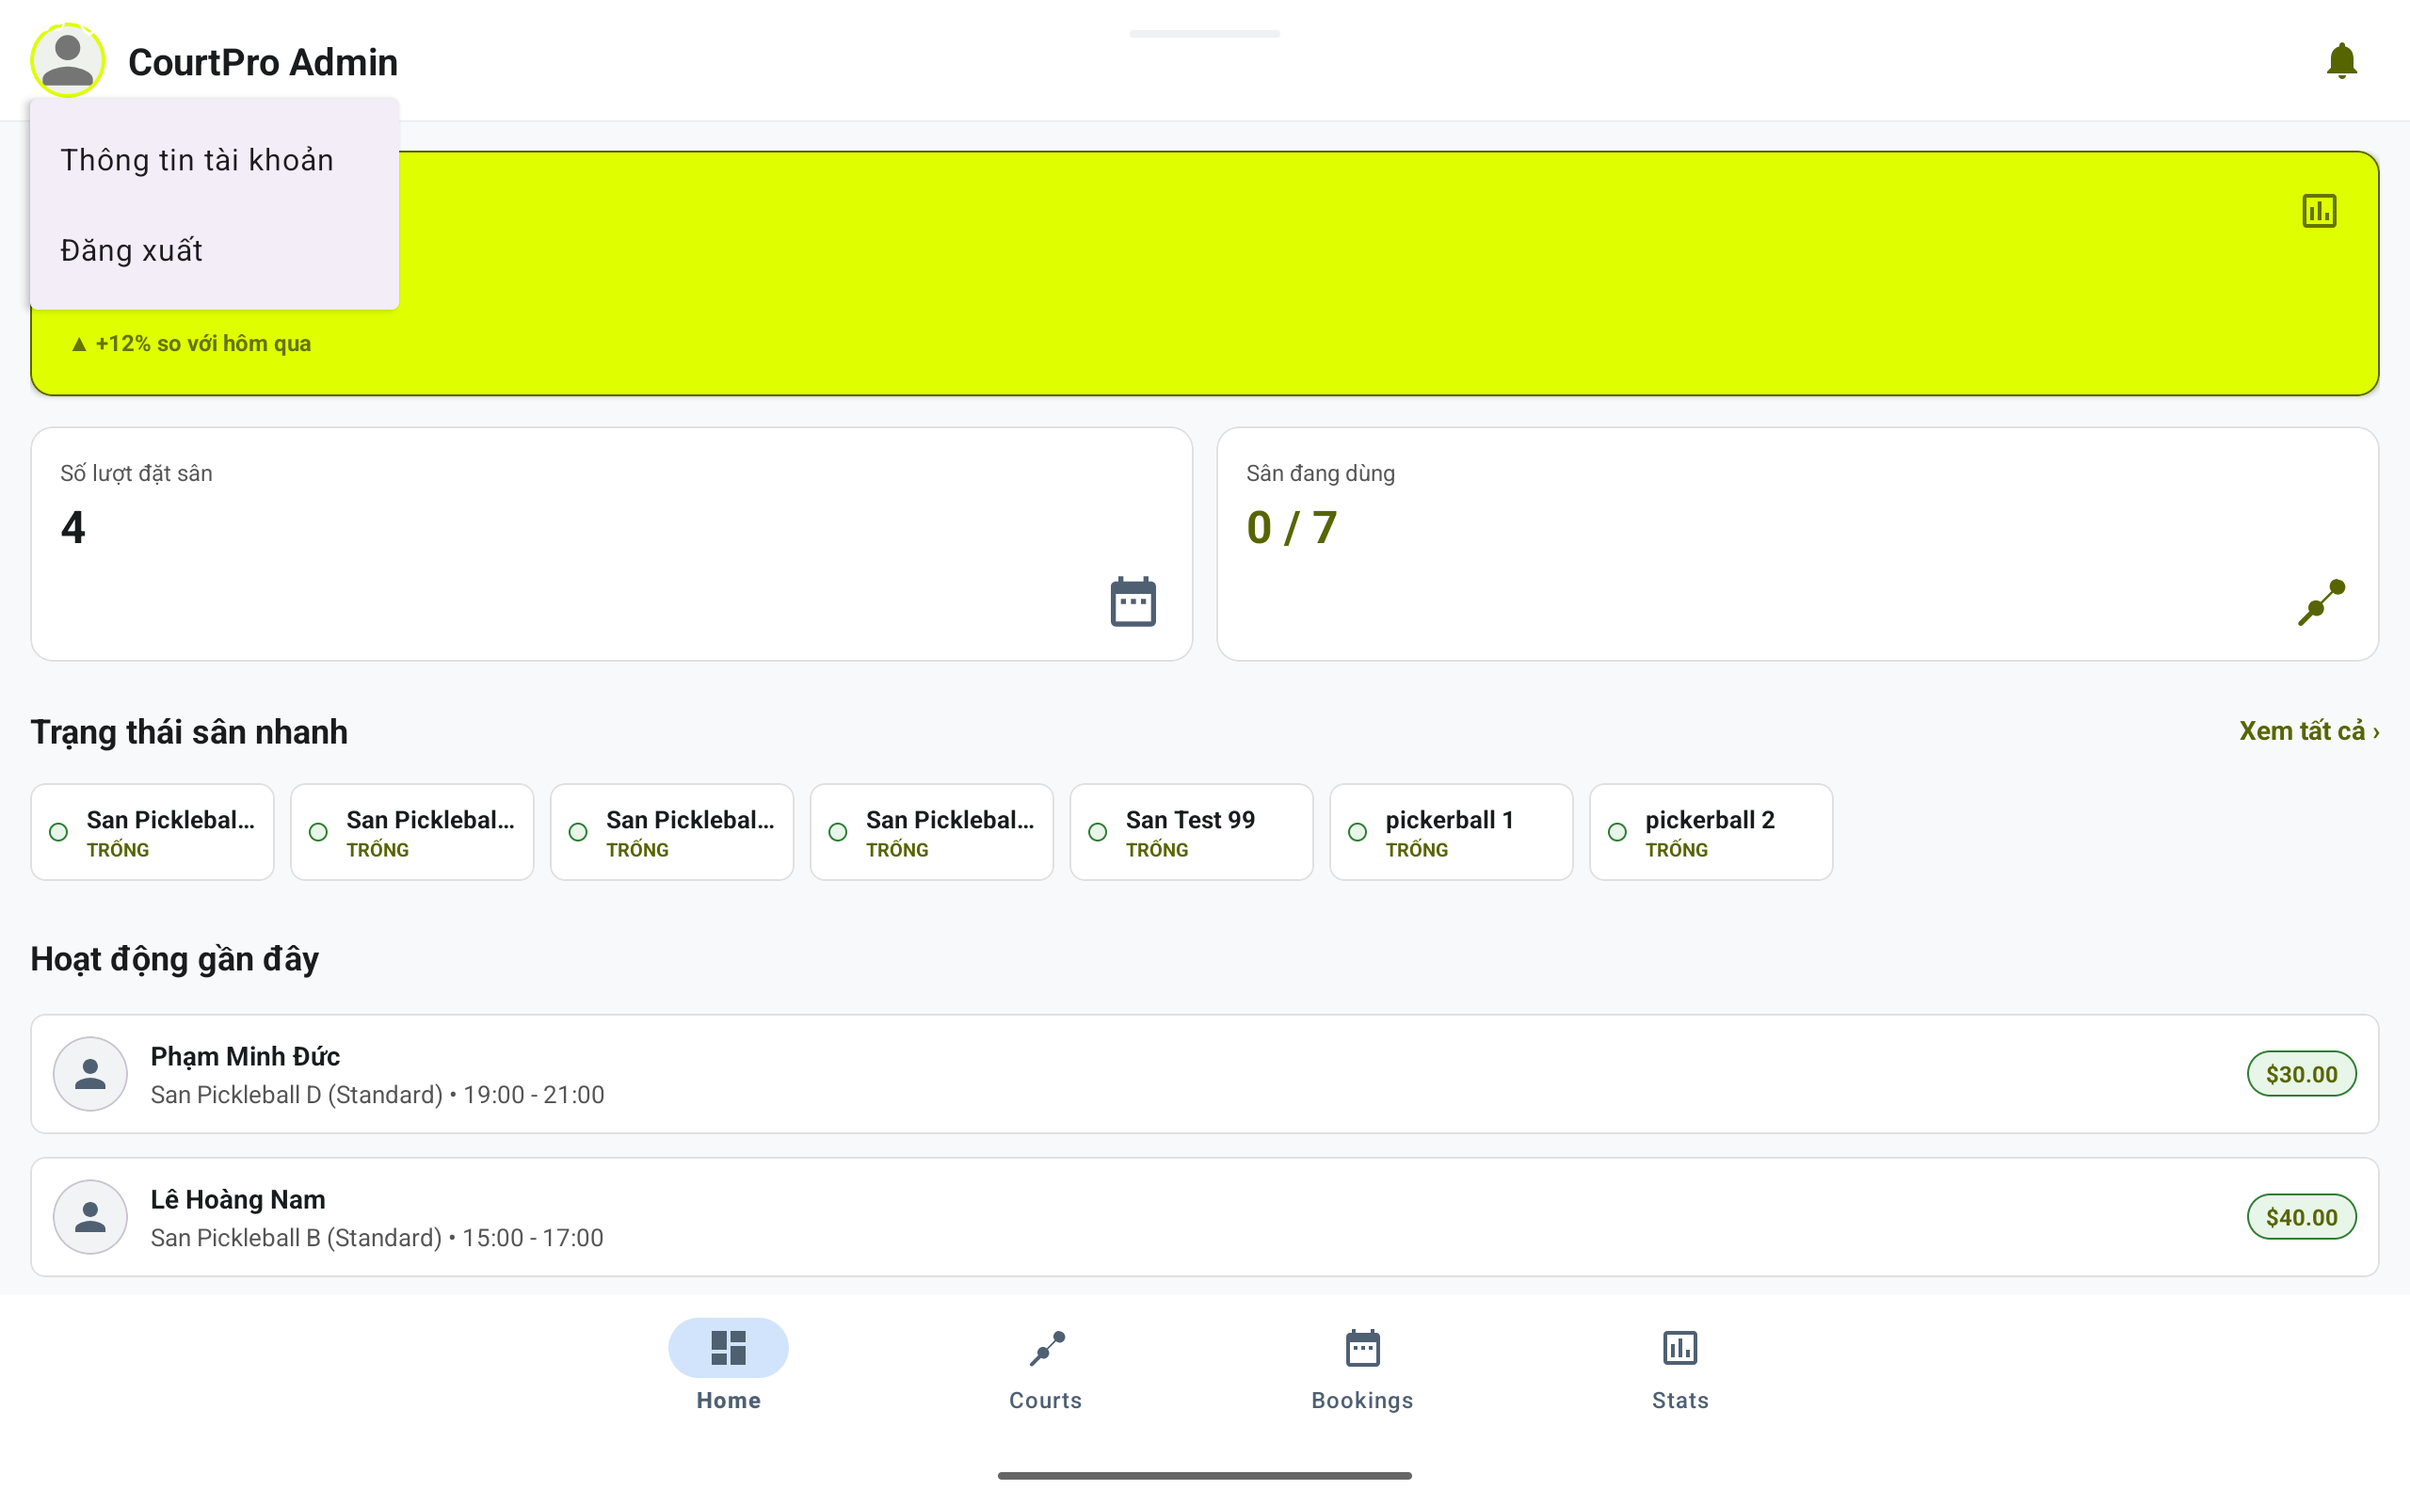
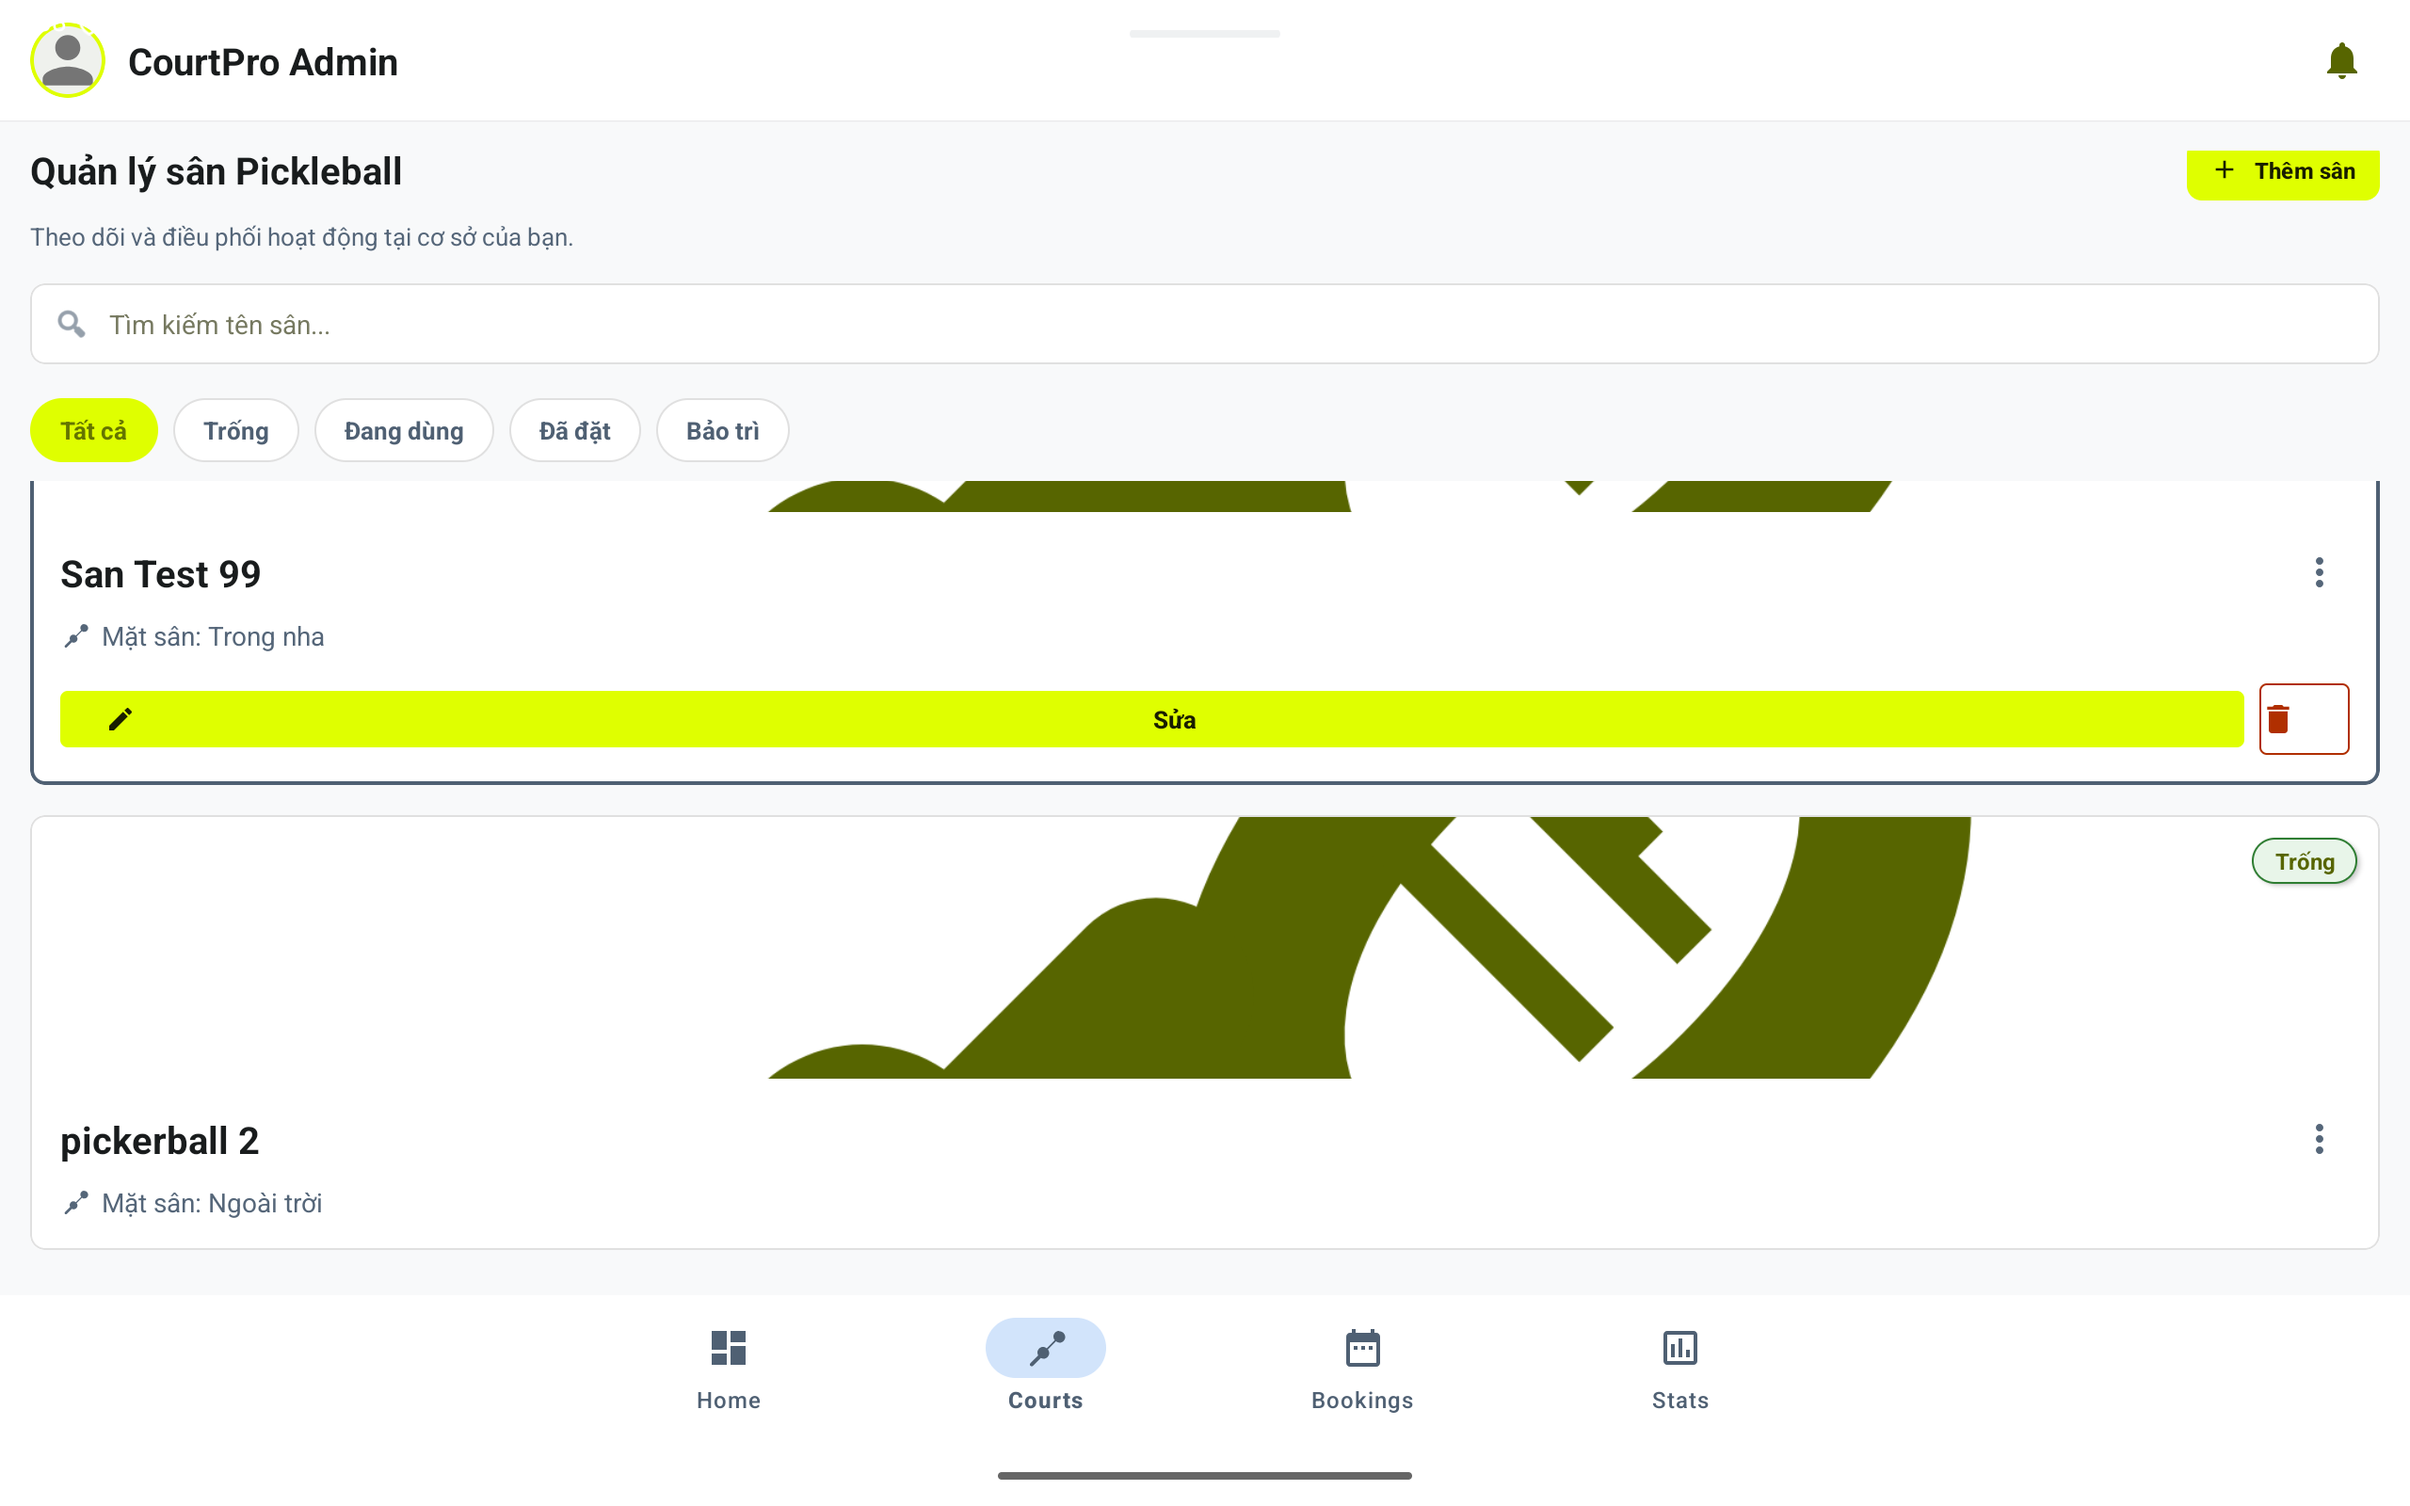
fix<court>: list court

diff --git a/backend/src/main/java/com/example/backend/controller/SanController.java b/backend/src/main/java/com/example/backend/controller/SanController.java
@@ -19,7 +19,7 @@ public class SanController {
     @GetMapping
     public ResponseEntity<ApiResponse<List<San>>> getAllSan() {
         try {
-            List<San> listSan = sanRepository.findAll();
+            List<San> listSan = sanRepository.findByIsdeleteFalse();
             return ResponseEntity.ok(ApiResponse.<List<San>>builder()
                     .success(true)
                     .message("Lấy danh sách sân thành công!")

diff --git a/backend/src/main/java/com/example/backend/repository/SanRepository.java b/backend/src/main/java/com/example/backend/repository/SanRepository.java
@@ -3,10 +3,12 @@ package com.example.backend.repository;
 import com.example.backend.model.San;
 import org.springframework.data.jpa.repository.JpaRepository;
 import org.springframework.stereotype.Repository;
+import java.util.List;
 import java.util.Optional;
 
 @Repository
 public interface SanRepository extends JpaRepository<San, Integer> {
     Optional<San> findByMaSan(String maSan);
+    List<San> findByIsdeleteFalse();
 }
 

diff --git a/backend/src/main/java/com/example/backend/model/San.java b/backend/src/main/java/com/example/backend/model/San.java
@@ -37,4 +37,8 @@ public class San {
 
     @Column(name = "delete_at")
     private LocalDateTime deleteAt;
+
+    @Column(name = "isdelete")
+    @Builder.Default
+    private Boolean isdelete = false;
 }
